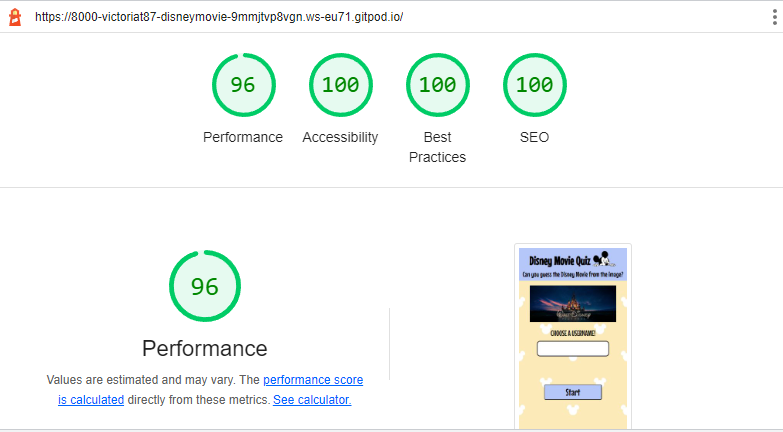
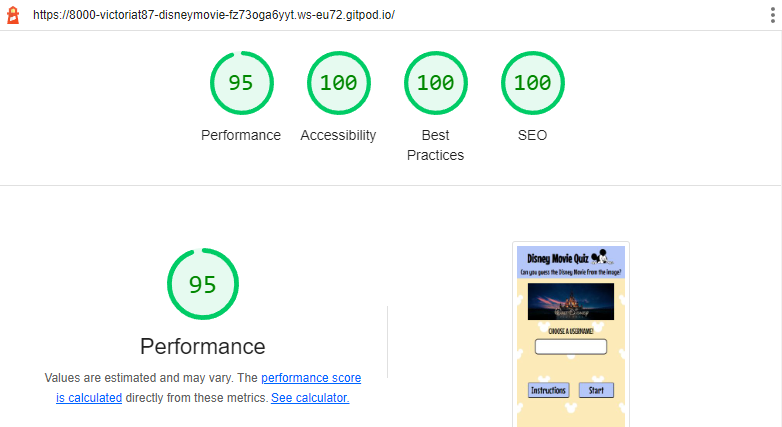
docs: Update Lighthouse mobile testing section in README.md

diff --git a/README.md b/README.md
@@ -264,11 +264,13 @@ Other Warnings included;
   
 ![Lighthouse Report](assets/documentation/index-lighthouse.png)
 
- - On mobile, the performace is 96. This was because of a cumulative layout shift of 0.154. Recommendations for this were to add width and height to images and change the main logo to a .webp.
+ - On mobile, the performace is 95. This was because of a cumulative layout shift of 0.154. Recommendations for this were to add width and height to images and change the images to .webp format.
  - To change images from .jpg to .webp I used the website [WEBP Converter](https://cloudconvert.com/webp-converter).
  - Even after these changes, there is still a CLS of 0.154. As I have already given everything a max-width and height, this is the best I can achieve.
+ - I also received a red warning for First Contentful Paint. The warning was telling me to "Eliminate render-blocking resources". After googling this issure, I found this website [LogRocket.com](https://blog.logrocket.com/9-tricks-eliminate-render-blocking-resources/#load-custom-fonts-locally) and after reading, felt my best option to reduce this was to load the styles.css file in the header of the index.html page, instead of using the @import method in styles.css. This fixed the issue. 
 
 ![Lighthouse Metrics](assets/documentation/mobile-lighthouse.png)
+![Lighthouse Metrics](assets/documentation/lighthouse-css.png)
 ![Lighthouse Metrics](assets/documentation/mobile-metrics.png)
 ![Lighthouse Metrics](assets/documentation/mobile-metrics2.png)
 
